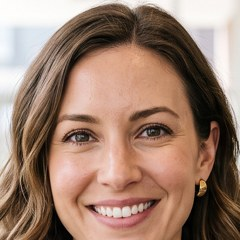
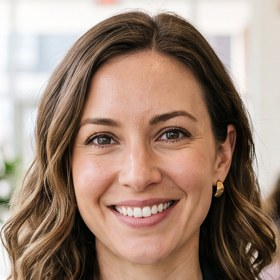
Ava: bigger bubble, zoomed out and centered photos
Claude-Session: https://claude.ai/code/session_01APSB1huBfTV44S1XgtiNWJ

diff --git a/guide/guide.js b/guide/guide.js
@@ -7,16 +7,16 @@
 var s=document.currentScript;if(!s)return;var d=s.dataset;
 var C=d.color||'#C8241D',N=d.name||'Ava',P=d.property||'',PRO=d.pro||'your leasing pro',V=d.video||'',POS=d.poster||'',FACE=d.face||POS;
 var css='.llg{position:fixed;right:14px;bottom:14px;z-index:9999;font:15px/1.45 Inter,system-ui,sans-serif;color:#111}'+
-'.llg-b{width:74px;height:74px;border-radius:50%;border:3px solid '+C+';background:#111 center/cover;box-shadow:0 10px 30px rgba(0,0,0,.3);cursor:pointer;position:relative;overflow:hidden;padding:0;display:grid;place-items:center;color:#fff;font:700 28px Montserrat,Inter,sans-serif}'+
+'.llg-b{width:92px;height:92px;border-radius:50%;border:3px solid '+C+';background:#111 center/cover;box-shadow:0 10px 30px rgba(0,0,0,.3);cursor:pointer;position:relative;overflow:hidden;padding:0;display:grid;place-items:center;color:#fff;font:700 28px Montserrat,Inter,sans-serif}'+
 '.llg-b video{position:absolute;inset:0;width:100%;height:100%;object-fit:cover}'+
 '.llg-b::after{content:"";position:absolute;inset:-3px;border-radius:50%;border:3px solid '+C+';animation:llgp 2.2s ease-out infinite}'+
 '@keyframes llgp{0%{transform:scale(1);opacity:.7}100%{transform:scale(1.35);opacity:0}}'+
 '@media(prefers-reduced-motion:reduce){.llg-b::after{animation:none}}'+
-'.llg-tip{position:absolute;right:84px;bottom:18px;background:#fff;border-radius:14px;padding:8px 12px;box-shadow:0 8px 24px rgba(0,0,0,.18);white-space:nowrap;font-size:13px}'+
+'.llg-tip{position:absolute;right:102px;bottom:28px;background:#fff;border-radius:14px;padding:8px 12px;box-shadow:0 8px 24px rgba(0,0,0,.18);white-space:nowrap;font-size:13px}'+
 '.llg-tip b{color:'+C+'}'+
-'.llg-p{position:absolute;right:0;bottom:86px;width:min(320px,calc(100vw - 28px));background:#fff;border-radius:20px;box-shadow:0 18px 50px rgba(0,0,0,.3);overflow:hidden;display:none}'+
+'.llg-p{position:absolute;right:0;bottom:104px;width:min(320px,calc(100vw - 28px));background:#fff;border-radius:20px;box-shadow:0 18px 50px rgba(0,0,0,.3);overflow:hidden;display:none}'+
 '.llg.on .llg-p{display:block}.llg.on .llg-tip{display:none}'+
-'.llg-v{position:relative;aspect-ratio:9/12;background:#111 center/cover;display:grid;place-items:center;color:#fff;text-align:center}'+
+'.llg-v{position:relative;aspect-ratio:4/5;background:#111 center/cover;display:grid;place-items:center;color:#fff;text-align:center}'+
 '.llg-v video{width:100%;height:100%;object-fit:cover;display:block}'+
 '.llg-v .ph{padding:20px}.llg-v .ph b{display:block;font:700 40px Montserrat,Inter,sans-serif;width:84px;height:84px;line-height:84px;border-radius:50%;background:'+C+';margin:0 auto 12px}'+
 '.llg-h{padding:12px 14px 4px;font-size:14px}.llg-h small{display:block;color:#6a6e75;font-size:11.5px}'+
